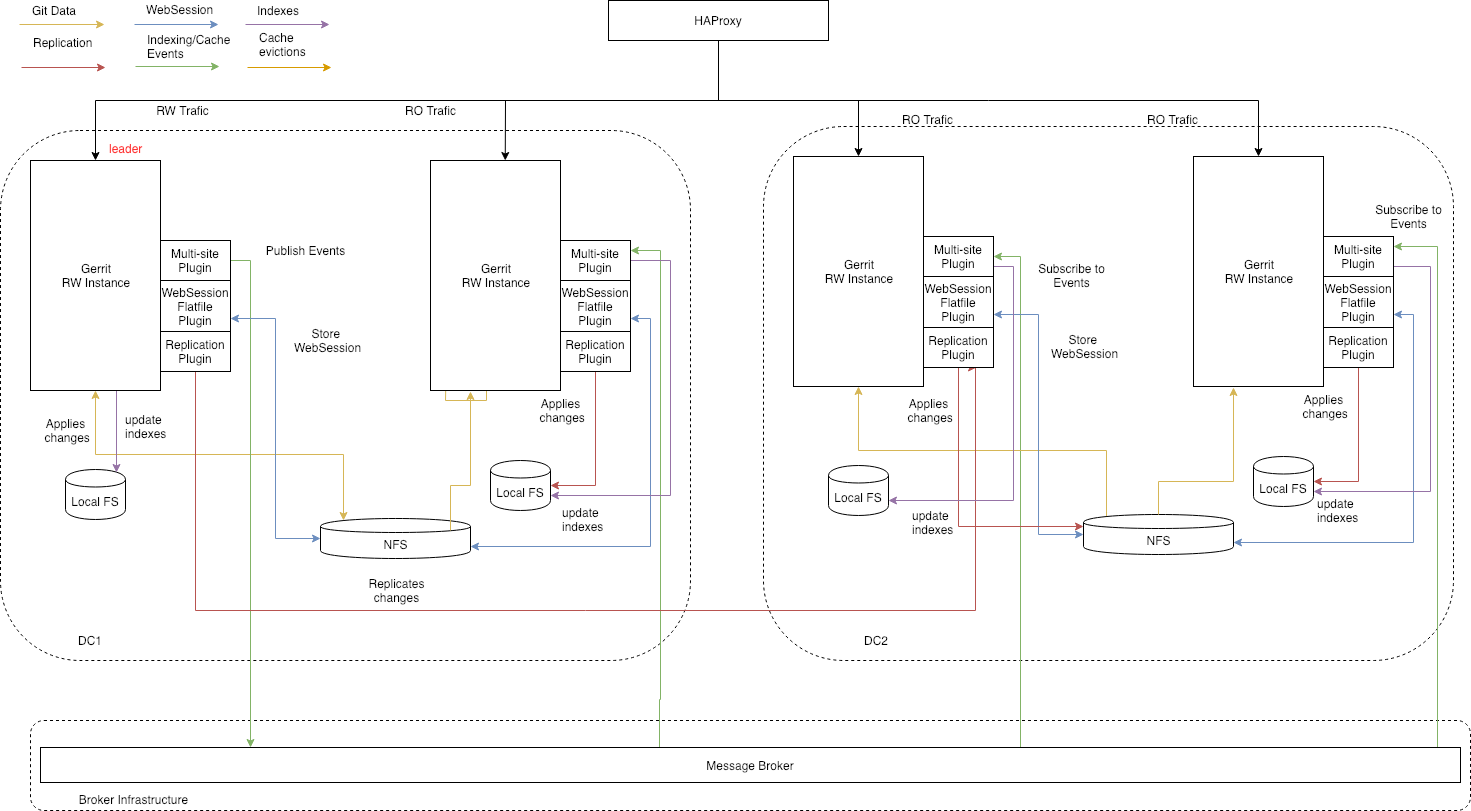
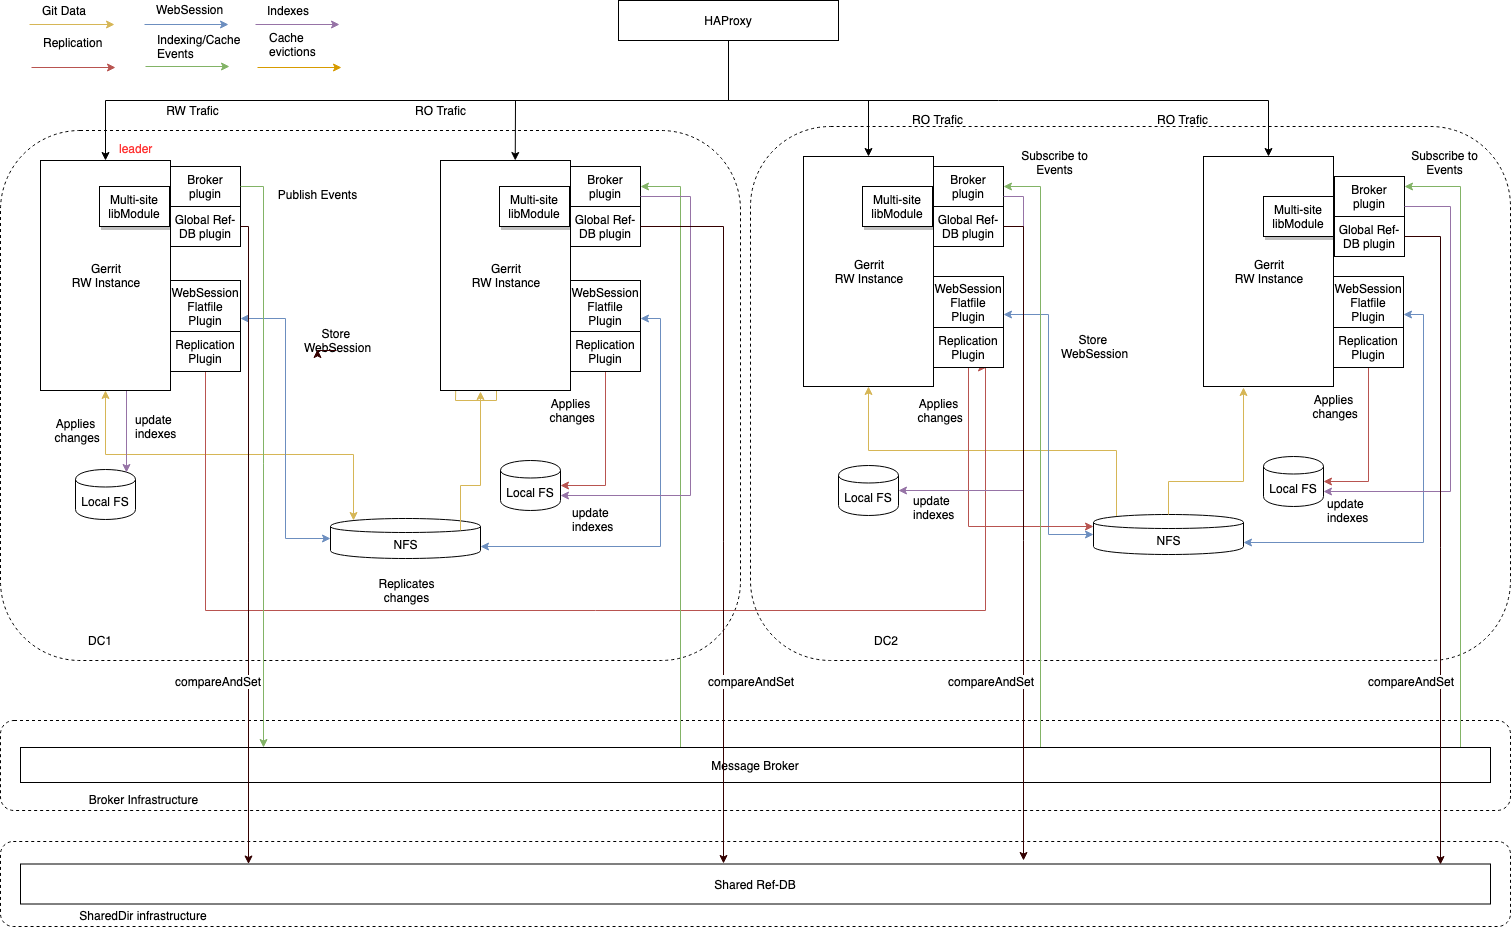
Update design proposal to abstract broker and Ref-DB
The implementation of the message broker and the Ref-DB should
be agnostic of the arbitrary choice of Kafka and Zookeper.

This change updates the documentation with a proposal that aims to
abstract over those specific choices and allow a dynamic binding of
different implementations instead.

Feature: Issue 10828

diff --git a/DESIGN.md b/DESIGN.md
@@ -257,8 +257,18 @@ be replicated transparently across sites.
 The multi-site solution described here depends upon the combined use of different
 components:
 
-- **multi-site plugin**: Enables the replication of Gerrit _indexes_, _caches_,
-  and _stream events_ across sites.
+- **multi-site libModule**: exports interfaces as DynamicItems to plug in specific
+implementation of `Brokers` and `Global Ref-DB` plugins.
+
+- **broker plugin**: an implementation of the broker interface, which enables the
+replication of Gerrit _indexes_, _caches_,  and _stream events_ across sites.
+When no specific implementation is provided, then the [Broker Noop implementation](#broker-noop-implementation)
+then libModule interfaces are mapped to internal no-ops implementations.
+
+- **Global Ref-DB plugin**: an implementation of the Global Ref-DB interface,
+which enables the detection of out-of-sync refs across gerrit sites.
+When no specific implementation is provided, then the [Global Ref-DB Noop implementation](#global-ref-db-noop-implementation)
+then libModule interfaces are mapped to internal no-ops implementations.
 
 - **replication plugin**: enables the replication of the _Git repositories_ across
   sites.
@@ -277,10 +287,78 @@ The interactions between these components are illustrated in the following diagr
 
 ## Implementation Details
 
-### Message brokers
-The multi-site plugin adopts an event-sourcing pattern and is based on an
-external message broker. The current implementation uses Apache Kafka.
-It is, however, potentially extensible to others, like RabbitMQ or NATS.
+### Multi-site libModule
+As mentioned earlier there are different components behind the overarching architecture
+of this solution of a distributed multi-site gerrit installation, each one fulfilling
+a specific goal. However, whilst the goal of each component is well-defined, the
+mechanics on how each single component achieves that goal is not: the choice of which
+specific message broker or which Ref-DB to use can depend on different factors,
+such as scalability, maintainability, business standards and costs, to name a few.
+
+For this reason the multi-site component is designed to be explicitly agnostic to
+specific choices of brokers and Global Ref-DB implementations, and it does
+not care how they, specifically, fulfill their task.
+
+Instead, this component takes on only two responsibilities:
+
+* Wrapping the GitRepositoryManager so that every interaction with git can be
+verified by the Global Ref-DB plugin.
+
+* Exposing DynamicItem bindings onto which concrete _Broker_ and a _Global Ref-DB_
+plugins can register their specific implementations.
+When no such plugins are installed, then the initial binding points to no-ops.
+
+* Detect out-of-sync refs across multiple gerrit sites:
+Each change attempting to mutate a ref will be checked against the Ref-DB to
+guarantee that each node has an up-to-date view of the repository state.
+
+### Message brokers plugin
+Each gerrit node in the cluster needs to be informed and inform all other nodes
+about fundamental events, such as indexing of new changes, cache evictions and
+stream events. This component will provide a specific pub/sub broker implementation
+that is able to do so.
+
+When provided, the message broker plugin will override the dynamicItem binding exposed
+by the multi-site module with a specific implementation, such as Kafka, RabbitMQ, NATS, etc.
+
+#### Broker Noop implementation
+The default `Noop` implementation provided by the `Multi-site` libModule does nothing
+upon publishing and producing events. This is useful for setting up a test environment
+and allows multi-site library to be installed independently from any additional
+plugins or the existence of a specific broker installation.
+The Noop implementation can also be useful when there is no need for coordination
+with remote nodes, since it avoids maintaining an external broker altogether:
+for example, using the multi-site plugin purely for the purpose of replicating the Git
+repository to a disaster-recovery site and nothing else.
+
+### Global Ref-DB plugin
+Whilst the replication plugin allows the propagation of the Git repositories across
+sites and the broker plugin provides a mechanism to propagate events, the Ref-DB
+Coordinator ensures correct alignment of refs of the multi-site nodes.
+
+It is the responsibility of this plugin to store atomically key/pairs of refs in
+order to allow the libModule to detect out-of-sync refs across multi sites.
+(aka split brain).  This is achieved by storing the most recent `sha` for each
+specific mutable `refs`, by the usage of some sort of atomic _Compare and Set_ operation.
+
+We mentioned earlier the [CAP theorem](https://en.wikipedia.org/wiki/CAP_theorem),
+which in a nutshell states that a distributed system can only provide two of these
+three properties: _Consistency_, _Availability_ and _Partition tolerance_: the Ref-DB
+Coordinator helps achieving _Consistency_ and _Partition tolerance_ (thus sacrificing
+Availability).
+
+See [Prevent split brain thanks to Global Ref-DB](#prevent-split-brain-thanks-to-ref-db-coordinator)
+For a thorough example on this.
+
+When provided, the Global Ref-DB plugin will override the dynamicItem binding
+exposed by the multi-site module with a specific implementation, such as Zoekeeper,
+etcd, MySQL, Mongo, etc.
+
+#### Global Ref-DB Noop implementation
+The default `Noop` implementation provided by the `Multi-site` libModule accepts
+any refs without checking for consistency. This is useful for setting up a test environment
+and allows multi-site library to be installed independently from any additional
+plugins or the existence of a specific Ref-DB installation.
 
 ### Eventual consistency on Git, indexes, caches, and stream events
 
@@ -408,22 +486,10 @@ detail below.
 
 **NOTE**: The two options are not exclusive.
 
-#### Introduce a `DfsRefDatabase`
+#### Prevent split brain thanks to Global Ref-DB
 
-An implementation of the out-of-sync detection logic could be based on a central
-coordinator holding the _last known status_ of a _mutable ref_ (immutable refs won't
-have to be stored here). This would be, essentially, a DFS base `RefDatabase` or `DfsRefDatabase`.
-
-This component would:
- 
-- Contain a subset of the local `RefDatabase` data:
-  - Store only _mutable _ `refs`
-  - Keep only the most recent `sha` for each specific `ref`
-- Require that atomic _Compare and Set_ operations can be performed on a
-key -> value storage.  For example, it could be implemented using `Zookeeper`. (One implementation
-was done by Dave Borowitz some years ago.)
-
-This interaction is illustrated in the diagram below:
+The above scenario can be prevented by using an implementation of the Global Ref-DB
+interface, which will operate as follows:
 
 ![Split Brain Prevented](images/git-replication-split-brain-detected.png)
 
@@ -469,17 +535,6 @@ sent the request to the Ref-DB but before persisting this request into its `git`
   able to differentiate the type of traffic and, thus, is forced always to use the
   RW site, even though the operation is RO.
 
-- **Support for different brokers**: Currently, the multi-site plugin supports Kafka.
-  More brokers need to be supported in a fashion similar to the
-  [ITS-* plugins framework](https://gerrit-review.googlesource.com/admin/repos/q/filter:plugins%252Fits).
-  Explicit references to Kafka must be removed from the multi-site plugin.  Other plugins may contribute
-  implementations to the broker extension point.
-
-- **Split the publishing and subscribing**:  Create two separate
-  plugins.  Combine the generation of the events into the current kafka-
-  events plugin.  The multi-site plugin will focus on
-  consumption of, and sorting of, the replication issues.
-
 ## Step-2: Move to multi-site Stage #8.
 
 - Auto-reconfigure HAProxy rules based on the projects sharding policy
@@ -487,5 +542,3 @@ sent the request to the Ref-DB but before persisting this request into its `git`
 - Serve RW/RW traffic based on the project name/ref-name.
 
 - Balance traffic with "locally-aware" policies based on historical data
-
-- Preventing split-brain in case of temporary sites isolation
